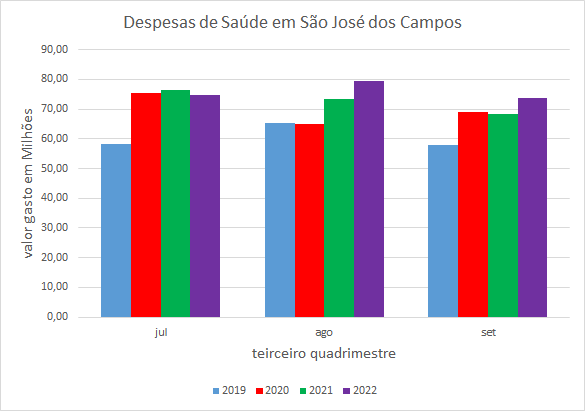
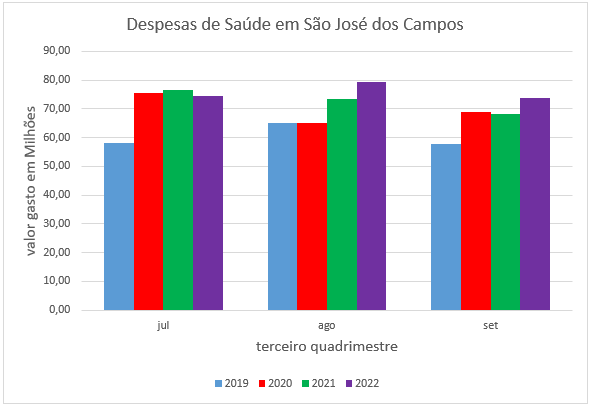
Corrigi um erro ortográfico no gráfico 'terceiro quadrimestre' de despesas de saúde de SJC

diff --git a/src/templates/municipios/graficos_gastos_sjc.html b/src/templates/municipios/graficos_gastos_sjc.html
@@ -29,7 +29,7 @@
       </select>
     </div><br>
     <div class="alinhar">
-      <img src="../../static/graficos_gastos/GráficoGastosporAnoSJC.svg" alt="Os 5 maiores gastos por ano em São José dos Campos">
+      <img src="../../static/graficos_gastos/GráficoGastosporAnoSJC.svg" alt="Os 5 maiores gastos por ano em São José dos Campos"> <br>
       <img src="../../static/graficos_gastos/despesas_saude_sjc_1quad.png" alt="Despesas de Saúde em São José Dos Campos">
       <img src="../../static/graficos_gastos/despesas_saude_sjc_2quad.png" alt="Despesas de Saúde em São José Dos Campos">
       <img src="../../static/graficos_gastos/despesas_saude_sjc_3quad.png" alt="Despesas de Saúde em São José Dos Campos">
